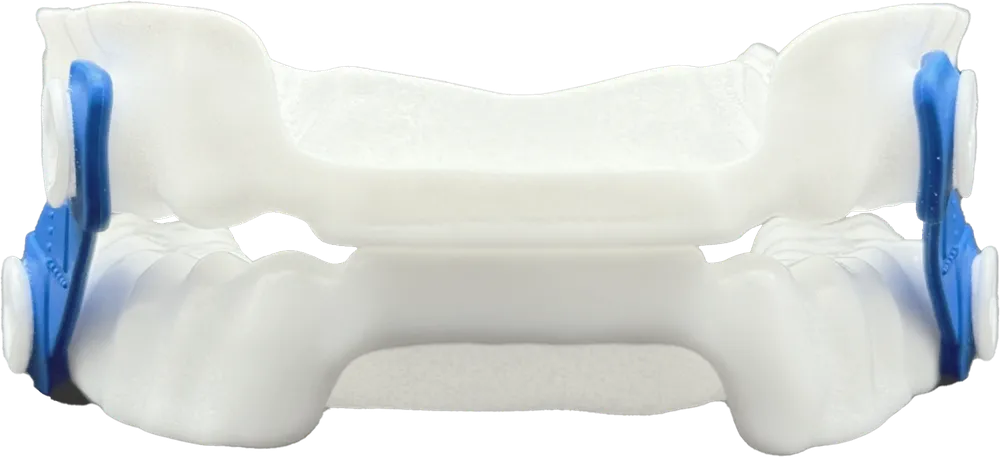
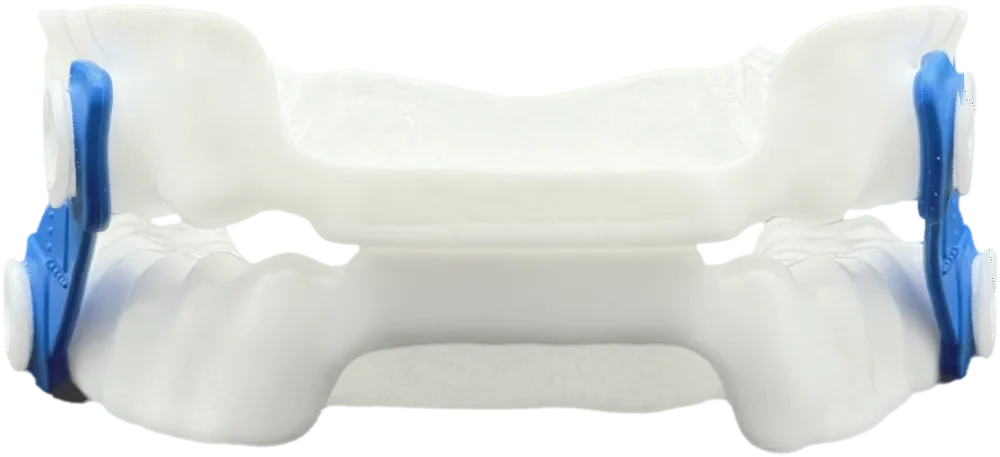
fix(images): remove the dark outlines from appliance cut-outs
- ddso-post-iso had a baked-in dark halo; replaced everywhere by a clean
  cut-out of the lab's DDSO Posterior render (ddso-post-render) and deleted.
- The Sleep anterior card uses the matching DDSO Anterior render.
- ddso-front, ddso-nylon-bands and onp-nylon4 are defringed in place.
- Deleted ddso-ant-front (byte-identical copy of ddso-front) and the unused,
  outlined ddso-transparent and ddso-blue-bands.

diff --git a/apps/web/src/data/products.js b/apps/web/src/data/products.js
@@ -11,7 +11,7 @@ export const PRODUCTS = {
     categoryBg: "bg-accent-500/10",
     images: [
       { src: "/images/ddso-ant-overview.webp", label: "DDSO Anterior — Overview" },
-      { src: "/images/ddso-ant-front.webp",    label: "DDSO Anterior — Front View" },
+      { src: "/images/ddso-front.webp",    label: "DDSO Anterior — Front View" },
       { src: "/images/ddso-ant-hooks.webp",    label: "DDSO Anterior — Nylon Band Hooks" },
       { src: "/images/ddso-ant-angle.webp",    label: "DDSO Anterior — Angle View" },
       { src: "/images/ddso-ant-pair.webp",     label: "DDSO Anterior — Upper & Lower" },
@@ -41,7 +41,7 @@ export const PRODUCTS = {
     categoryBg: "bg-accent-500/10",
     images: [
       { src: "/images/ddso-post-overview.webp", label: "DDSO Posterior — Overview" },
-      { src: "/images/ddso-post-iso.webp",      label: "DDSO Posterior — Isometric" },
+      { src: "/images/ddso-post-render.webp",      label: "DDSO Posterior — Isometric" },
       { src: "/images/ddso-post-interior.webp", label: "DDSO Posterior — Interior" },
       { src: "/images/ddso-isometric.webp",     label: "DDSO Posterior — Blue Bands" },
       {

diff --git a/apps/web/src/pages/marketing/DigitalWorkflow.jsx b/apps/web/src/pages/marketing/DigitalWorkflow.jsx
@@ -58,7 +58,7 @@ const ADVANTAGES = [
 ];
 
 const APPLIANCES = [
-  { name: "Diamond Digital Sleep Orthotic", short: "DDSO", image: "/images/ddso-post-iso.webp", to: "/services/sleep" },
+  { name: "Diamond Digital Sleep Orthotic", short: "DDSO", image: "/images/ddso-post-render.webp", to: "/services/sleep" },
   { name: "Olmos Neuromuscular Device", short: "OND", image: "/images/ond-nylon.webp", to: "/services/tmd" },
   { name: "Olmos Neuromuscular Positioner", short: "ONP", image: "/images/onp-nylon4.webp", to: "/services/tmd" },
 ];
@@ -171,7 +171,7 @@ export function DigitalWorkflowPage() {
         intro="Approved doctors send scans through the Rx form in the account portal, and we'll confirm receipt within one business day."
         primary={{ label: "Submit Digital Rx", to: "/submit-case" }}
         secondary={{ label: "Rx instructions", to: "/resources/rx-instructions" }}
-        product="/images/ddso-post-iso.webp"
+        product="/images/ddso-post-render.webp"
         productAlt="A DDSO sleep appliance"
       />
     </>

diff --git a/apps/web/src/pages/marketing/About.jsx b/apps/web/src/pages/marketing/About.jsx
@@ -31,7 +31,7 @@ const VALUES = [
 
 const SHOWCASE = [
   { name: "DDSO Anterior", full: "Diamond Digital Sleep Orthotic, anterior contact design", image: "/images/ddso-ant-angle.webp", alt: "DDSO anterior sleep appliance on a dark dental model" },
-  { name: "DDSO Posterior", full: "Diamond Digital Sleep Orthotic, full-arch posterior design", image: "/images/ddso-post-iso.webp", alt: "DDSO posterior sleep appliance with a nylon band" },
+  { name: "DDSO Posterior", full: "Diamond Digital Sleep Orthotic, full-arch posterior design", image: "/images/ddso-post-render.webp", alt: "DDSO posterior sleep appliance with a nylon band" },
   { name: "OND", full: "Olmos Neuromuscular Device", image: "/images/ond-nylon.webp", alt: "Olmos Neuromuscular Device on upper and lower models" },
   { name: "ONP", full: "Olmos Neuromuscular Positioner", image: "/images/onp-nylon4.webp", alt: "Olmos Neuromuscular Positioner on upper and lower models" },
 ];

diff --git a/apps/web/src/pages/marketing/Sleep.jsx b/apps/web/src/pages/marketing/Sleep.jsx
@@ -58,13 +58,13 @@ const SYMPTOMS = [
 const VARIANTS = [
   {
     name: "DDSO Anterior",
-    image: "/images/ddso-ant-hooks.webp",
-    alt: "DDSO Anterior upper and lower trays with nylon band hooks",
+    image: "/images/ddso-ant-render.webp",
+    alt: "DDSO Anterior upper and lower trays joined by blue bands",
     facts: ["Anterior contact only", "Nylon band system", "Biocompatible nylon PA12"],
   },
   {
     name: "DDSO Posterior",
-    image: "/images/ddso-post-iso.webp",
+    image: "/images/ddso-post-render.webp",
     alt: "DDSO Posterior full-arch trays with a blue band",
     facts: ["Full-arch posterior", "Adjustable band system", "Biocompatible nylon PA12"],
   },

diff --git a/apps/web/src/pages/marketing/DrOlmos.jsx b/apps/web/src/pages/marketing/DrOlmos.jsx
@@ -166,7 +166,7 @@ export function DrOlmosPage() {
         intro="Dr. Olmos directs the courses for dentists. The certified labs fabricate Olmos Series appliances."
         primary={{ label: "Courses", to: "/resources/courses" }}
         secondary={{ label: "Certified labs", to: "/resources/certified-labs" }}
-        product="/images/ddso-post-iso.webp"
+        product="/images/ddso-post-render.webp"
         productAlt="A DDSO appliance with blue bands"
       />
     </>

diff --git a/apps/web/src/data/rx-devices.js b/apps/web/src/data/rx-devices.js
@@ -676,7 +676,7 @@ export const RX_DEVICES = [
     name: "Remake / Repair",
     fullName: "Remake, Repair, or Redesign",
     category: "remake",
-    image: "/images/ddso-post-iso.webp",
+    image: "/images/ddso-post-render.webp",
     tagline: "Warranty remake, repair, or redesign of a previously delivered device.",
     options: REMAKE_OPTIONS,
   },

diff --git a/apps/web/src/pages/marketing/Home.jsx b/apps/web/src/pages/marketing/Home.jsx
@@ -151,7 +151,7 @@ function DiagnosticShuffler() {
       label: "Diamond Digital Sleep Orthotic",
       status: "Sleep",
       color: "bg-brand-500",
-      image: "/images/ddso-post-iso.webp",
+      image: "/images/ddso-post-render.webp",
     },
     {
       label: "Olmos Neuromuscular Device",

diff --git a/apps/web/src/components/marketing/film/filmScript.js b/apps/web/src/components/marketing/film/filmScript.js
@@ -39,7 +39,7 @@ export const CHAPTERS = [
     vh: 100,
     look: 0,
     pose: { yaw: 0.72, pitch: 0.2, dist: 7, x: -1.25, y: 0.42, open: 0, labels: 0 },
-    fallback: "/images/ddso-post-iso.webp",
+    fallback: "/images/ddso-post-render.webp",
   },
   {
     id: "anatomy",
